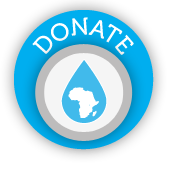
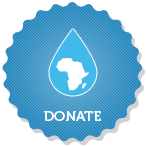
Donate button

diff --git a/css/style.css b/css/style.css
@@ -80,23 +80,27 @@ td { vertical-align: top; }
   /* Header */
     /* Donate Nag */
       .donatenag { height:24px; line-height:24px; background:#43b9ea; color:#000; }
-      .donatenag p { width: 1024px; margin:0 auto; font-family:'Arial'; text-indent:10px; }
-      .donatenag a { color:#FFF; font-family:'Museo-700';}
+      .donatenag p { width: 1024px; margin:0 auto; font-family:'Arial'; font-weight:700; text-indent:10px; }
+      .donatenag a { color:#FFF; font-family:'Museo-700'; font-weight:400; }
       .donatenag a.close { float: right; background:url(../img/donatenag_close.png) no-repeat; height:16px; width:16px; margin-top:4px; }
         .donatenag a.close:hover { background-position:0 -20px; }
 
     /* Main Nav */
       .fixednav { background:url(../img/mainnav_background.png) repeat-x; height:125px; font-size:16px; font-family:'Museo-500'; position: relative; }
-      .fixednav h1 { background:url(../img/logo.png) no-repeat; height:49px; width:237px; position: absolute; top:35px; left:30px; }
-      .mainnav { float: right; margin-top:30px; margin-right:70px; position: relative; }
+      .fixednav h1 { margin:0; }
+      .fixednav h1 a { background:url(../img/logo.png) no-repeat; height:49px; width:237px; position: absolute; top:35px; left:30px; }
+      .mainnav { float: right; margin-top:30px; margin-right:35px; padding-right:35px; position: relative; }
+      .mainnav ul { float: right;}
       .mainnav li { float: left; padding:0 10px 0 0; margin:0 10px 0 0; background:url(../img/mainnav_li_background.png) no-repeat right 10px; }
         .mainnav li.last { background:none; padding:0; margin:0; }
-      .mainnav a { color: #4e4e4e; text-decoration:none; font-weight:400; text-shadow: 1px 1px 2px #FFF; line-height:55px; }
+      .mainnav a { color: #606060; text-decoration:none; font-weight:400; text-shadow: 1px 1px 2px #FFF; line-height:55px; }
         .mainnav a:hover { text-decoration:underline; }
-        .mainnav .active a { font-family:'Museo-700'; color: #43b9ea; }
+        .mainnav .active a { font-family:'Museo-700'; color: #549ab7; background:url(../img/mainnav_active.png) no-repeat center 40px; overflow: visible; height:90px; display: block; }
+      .mainnav .socialtoggle { position: absolute; top:17px; right:0; height:20px; width:20px; background:url(../img/mainnav_social.png) no-repeat; }
+        .mainnav .socialtoggle:hover { background-position: 0 -30px;}
 
     /* Social Links */
-      .social { float: right; margin:5px 0 0 0; }
+      /*.social { float: right; margin:5px 0 0 0; }
       .social li { float: left; margin:0 0 0 5px; }
       .social a { height:25px; width:26px; background:url(../img/social_sprite.png) no-repeat; background-repeat: no-repeat; display: block; float:left; }
         .social a.facebook { background-position:0 0; background-repeat: no-repeat; }
@@ -106,18 +110,19 @@ td { vertical-align: top; }
         .social a.youtube { background-position:-57px 0; background-repeat: no-repeat; }
           .social a.youtube:hover { background-position:-57px -30px; }
         .social a.flikr { background-position:-86px 0; background-repeat: no-repeat; }
-          .social a.flikr:hover { background-position:-86px -30px; }
+          .social a.flikr:hover { background-position:-86px -30px; }*/
 
   /* Donate */
-    .donate { background:url(../img/donate_background.png) repeat-x; height:31px; margin:1px 0 0 0; position: relative; }
-    .donate .button { background:url(../img/donate_button_sprite.png) repeat-x; height:165px; width:165px; display: block; position: absolute; left:50%; margin:0 0 0 -82px; top:-100px; }
-      .donate .button:hover { background-position:0 -175px; }
+    .donate { }
+    .donate .button { background:url(../img/donate_button_sprite.png) repeat-x; height:145px; width:145px; display: block; position: absolute; left:50%; margin:0 0 0 -82px; top:-100px; }
+      .donate .button:hover { background-position:0 -150px; }
 
   /* Hero */
-    .hero { padding:0 0 30px 0; overflow: hidden; }
+    .hero { padding:0 0 30px 0; overflow: hidden; position: relative; }
     .hero .slide { float: left; max-height:500px; overflow: hidden; }
       .hero .slide.hide { display: none; }
     .hero .slide img { width:100%; }
+    .hero .donate { }
 
   /* Competition Section */
     .competition { margin:110px 0 0 0; padding: 0 0 35px 0; position: relative; }

diff --git a/index.html b/index.html
@@ -29,7 +29,7 @@
     <!-- End Donate Nag -->
     <!-- Start Fixed Nav -->
     <div id="fixednav" class="fixednav content">
-      <h1 class="ir">River to Well</h1>
+      <h1><a class="ir" href="#">River to Well</a></h1>
       <nav id="mainnav" class="mainnav">
         <ul>
           <li class="active"><a href="#">Home</a></li>
@@ -39,15 +39,8 @@
           <li><a href="#aboutus">About Us</a></li>
           <li class="last"><a href="#contactus">Contact</a></li>
         </ul>
+        <a href="#" class="socialtoggle action_socialtoggle ir">Social</a>
       </nav>
-      <!-- <nav class="social">
-        <ul>
-          <li><a href="https://www.facebook.com/rivertowell" target="_blank" alt="Visit our Facebook page" class="facebook ir">Facebook</a></li>
-          <li><a href="http://twitter.com/rivertowell" target="_blank" alt="Visit our Twitter page" class="twitter ir">Twitter</a></li>
-          <li><a href="#" target="_blank" alt="Visit our YouTube page" class="youtube ir">YouTube</a></li>
-          <li><a href="#" target="_blank" alt="Visit our Flikr page" class="flikr ir">Flikr</a></li>
-        </ul>
-      </nav> -->
     </div>
     <!-- End Fixed Nav -->
 
